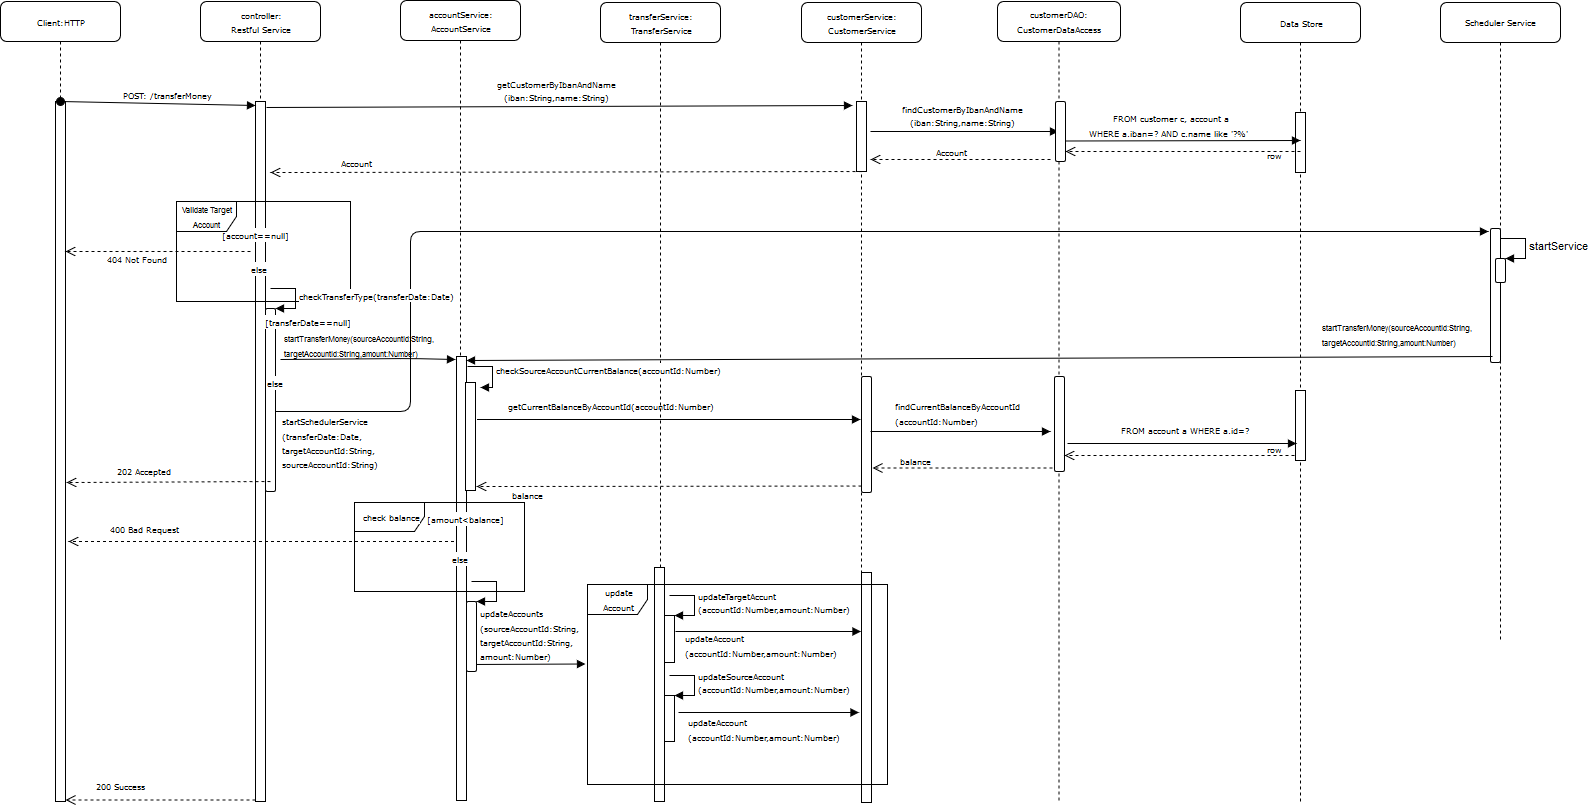
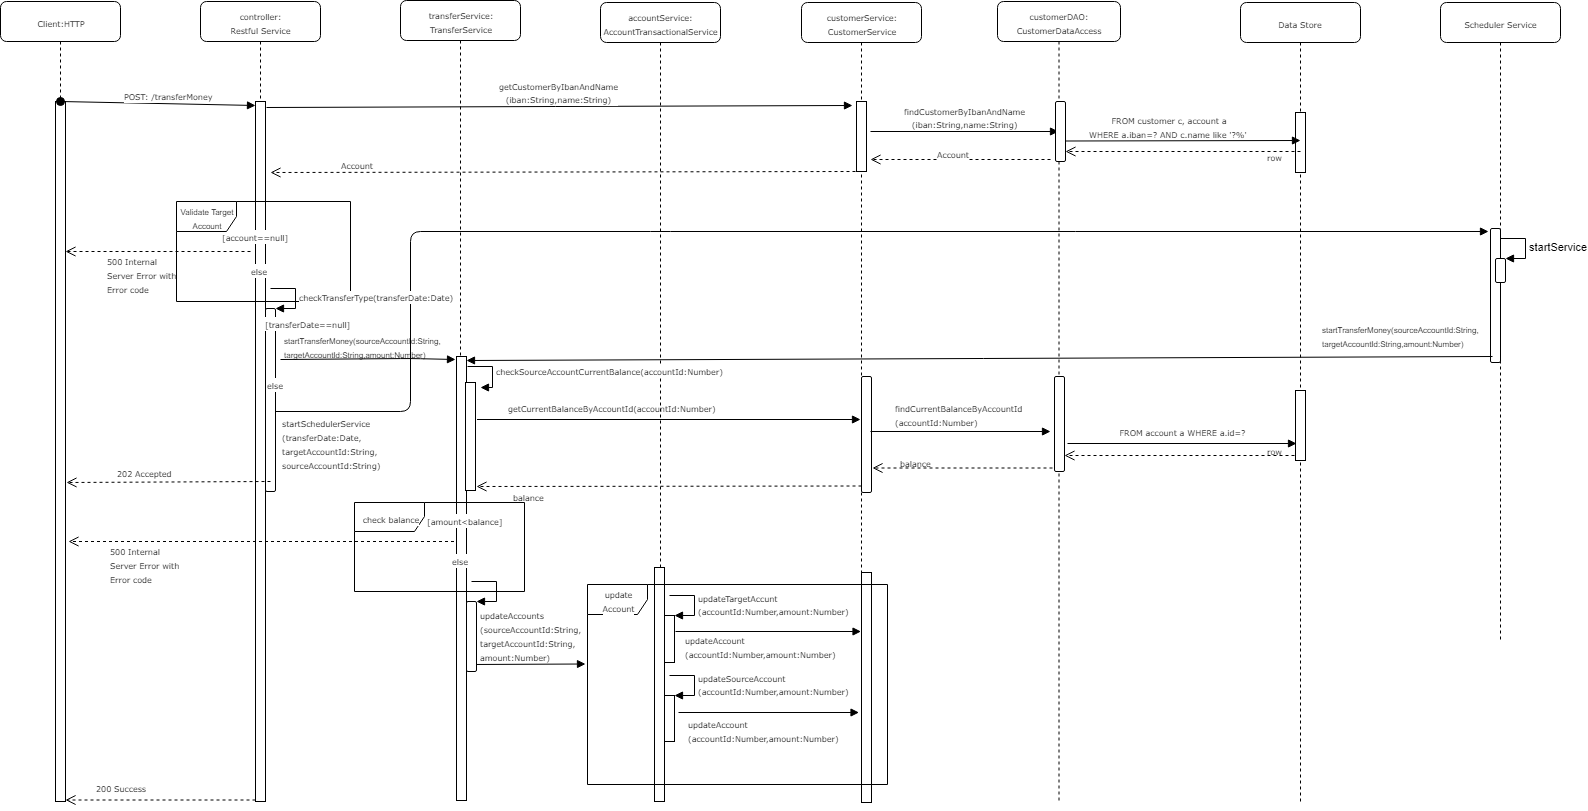
refactoring

diff --git a/money-transfer-ejb/src/main/java/dao/CustomerDAOImpl.java b/money-transfer-ejb/src/main/java/dao/CustomerDAOImpl.java
@@ -27,22 +27,6 @@ public class CustomerDAOImpl implements CustomerDAO {
     }
 
     @Override
-    public List<Customer> findCustomerByIbanAndName(final String iban, final String name) {
-        final Query query = em.createQuery("SELECT c FROM Customer c, Account a WHERE  c.id=a.customerId AND a.iban = :iban AND c.name LIKE :name");
-        query.setParameter("iban", iban);
-        query.setParameter("name", name.toUpperCase() + "%");
-        return (List<Customer>) query.getResultList();
-    }
-
-    @Override
-    public List<Account> findAccountByCustomerIdAndIban(final int customerId, final String iban) {
-        final Query query = em.createQuery("SELECT a FROM Account a Where a.iban = :iban AND a.customerId = :customerId");
-        query.setParameter("iban", iban);
-        query.setParameter("customerId", customerId);
-        return (List<Account>) query.getResultList();
-    }
-
-    @Override
     public List<Account> findAccountByIban(final String iban) {
         final Query query = em.createQuery("SELECT a FROM Account a Where a.iban = :iban");
         query.setParameter("iban", iban);

diff --git a/money-transfer-ejb/src/main/java/com/fsusam/tutorial/ejb/money/transfer/persistence/service/TransferServiceImpl.java b/money-transfer-ejb/src/main/java/com/fsusam/tutorial/ejb/money/transfer/persistence/service/TransferServiceImpl.java
@@ -30,12 +30,4 @@ public class TransferServiceImpl implements TransferService {
 
         accountTransactionalService.updateAccountBalance(sourceAccount, targetAccount, amount);
     }
-
-    public AccountTransactionalService getAccountTransactionalService() {
-        return accountTransactionalService;
-    }
-
-    public void setAccountTransactionalService(final AccountTransactionalService accountTransactionalService) {
-        this.accountTransactionalService = accountTransactionalService;
-    }
 }

diff --git a/money-transfer-jar/src/main/java/com/fsusam/tutorial/jar/money/transfer/ejb/dao/CustomerDAO.java b/money-transfer-jar/src/main/java/com/fsusam/tutorial/jar/money/transfer/ejb/dao/CustomerDAO.java
@@ -14,10 +14,6 @@ public interface CustomerDAO {
 
     public void addAccount(final Account account);
 
-    public List<Customer> findCustomerByIbanAndName(final String iban, final String name);
-
-    public List<Account> findAccountByCustomerIdAndIban(final int customerId, final String iban);
-
     public List<Account> findAccountByIban(final String iban);
 
     public void updateAccount(final Account account);

diff --git a/README.md b/README.md
@@ -74,5 +74,22 @@ All Fail and Success cases are tested
 mvn clean install -Ptest-suite
 ```
 
+# Design
+## Entity UML Diagram
+![Entity UML Diagram](uml/Money_Transfer_Entity_Diagram.png)
+
+## Component UML Diagram
+![Component UML Diagram](uml/Money_Transfer_Component_Diagram.png)
+
+## Flow Chart UML Diagram
+![Flow Chart UML Diagram](uml/Money_Transfer_Flow_Diagram.png)
+
+## Sequence UML Diagram
+![Sequence UML Diagram](uml/Money_Transfer_Sequence_Diagram.png)
+
+These UML diagrams can be edited on [draw.io](https://www.draw.io/)
+
+# Note
+Scheduler Service has been not implemented for the current version (1.0-SNAPSHOT). It will be planned to next version
 
 
